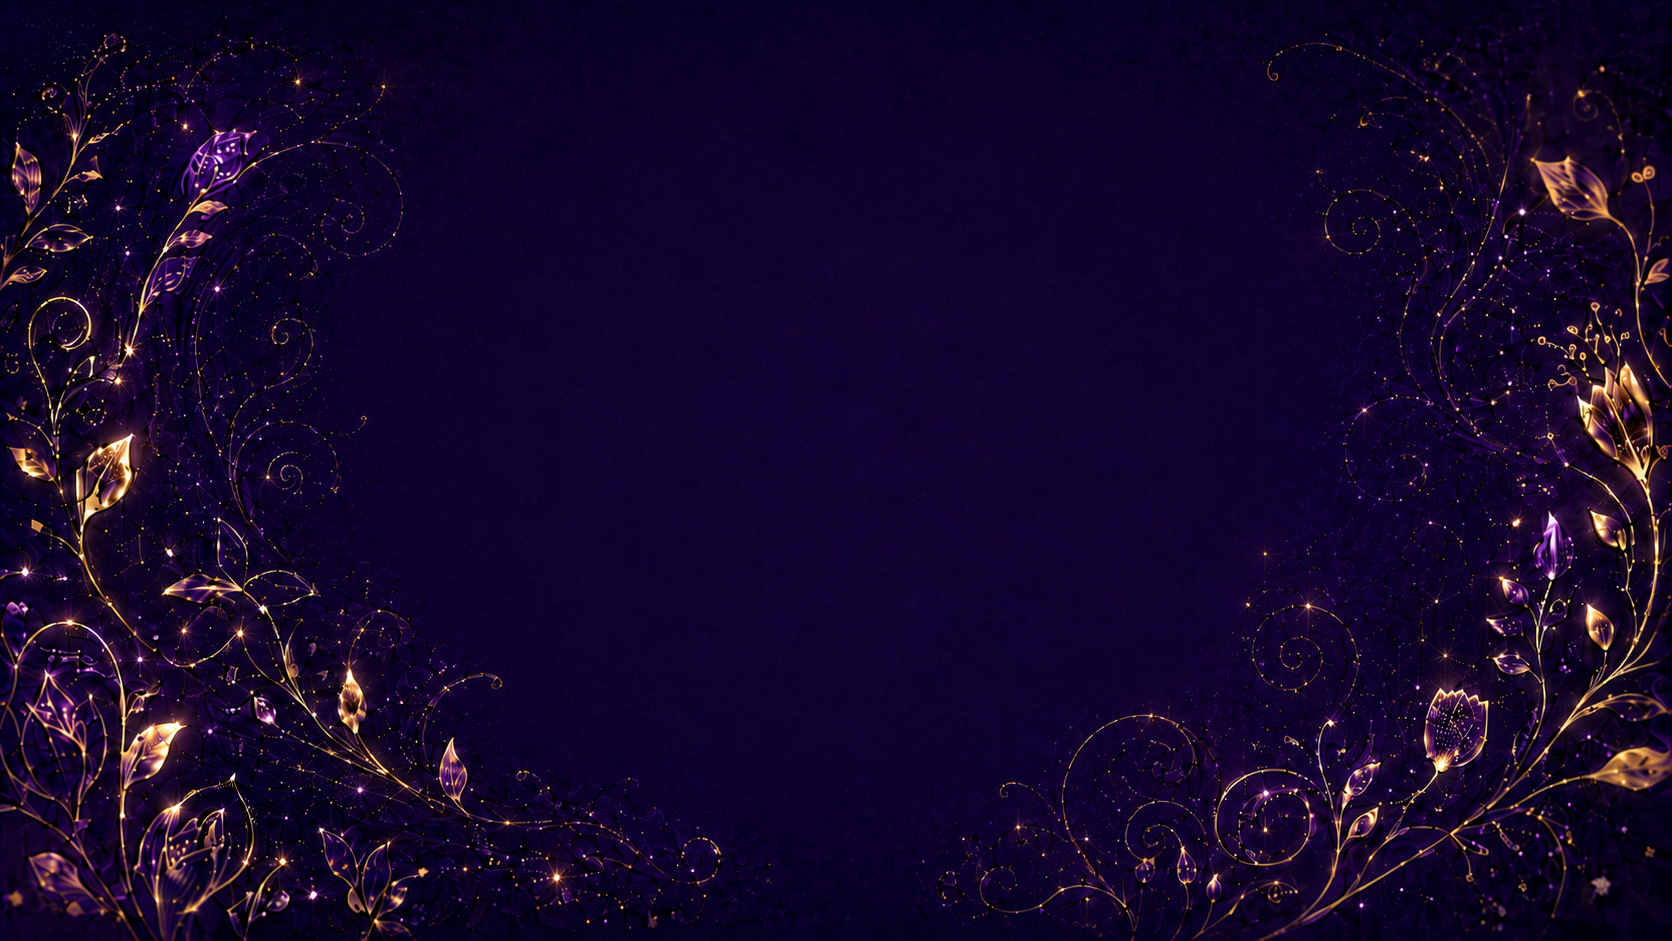
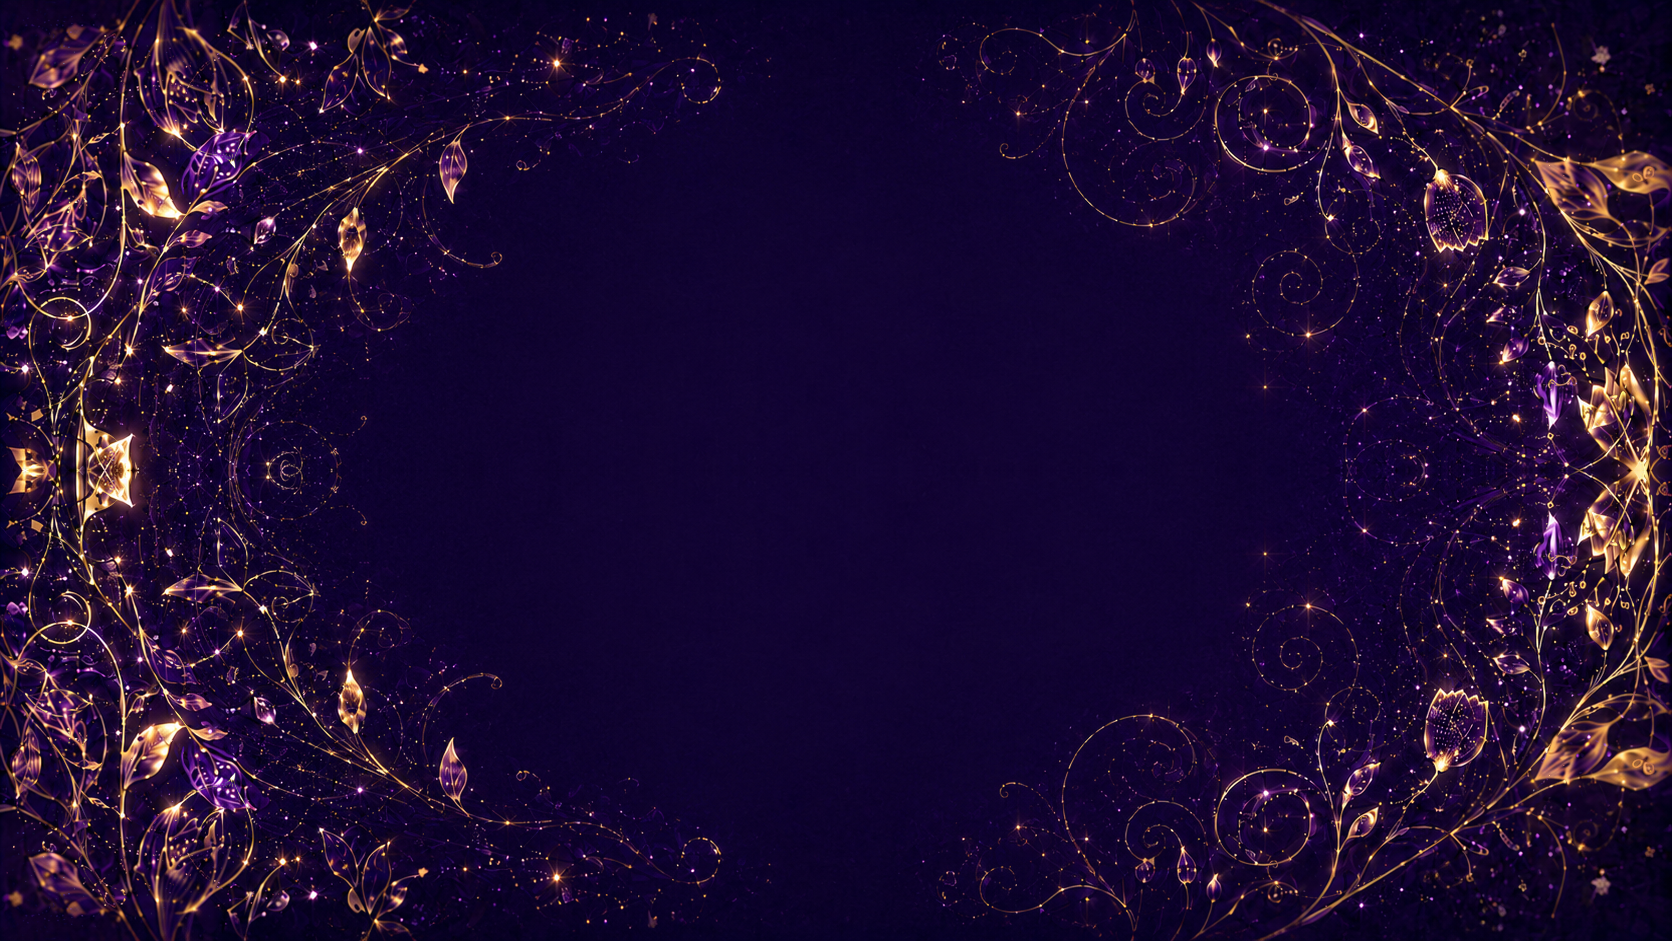
Entrance: frame scrollwork to top too; star-words above name starting with VIOS

diff --git a/site/js/quantum.js b/site/js/quantum.js
@@ -38,7 +38,7 @@
   resize();
   window.addEventListener('resize', resize);
 
-  var WORDS = ['AI', 'CLAUDE', 'LOVABLE', 'LINKEDIN', 'SUBSTACK', 'VIOS', 'WTIC'];
+  var WORDS = ['VIOS', 'AI', 'CLAUDE', 'LOVABLE', 'LINKEDIN', 'SUBSTACK', 'WTIC'];
   var GOLD = '223,178,74';
   var LAVENDER = '196,186,220';
   var WHITE = '255,250,240';
@@ -161,17 +161,15 @@
     return pts;
   }
 
-  /* Big star-words: each word is fit to fill ~the center third —
-     capped by 90% of width OR 34% of viewport height, whichever
-     comes first, so short words ("AI") go huge and long ones
-     ("SUBSTACK") fill the width without clipping. */
+  /* Star-words form ABOVE the name (upper area) so they read clearly —
+     fit to 72% width OR ~17% viewport height, whichever comes first. */
   function wordTargets(word) {
     var off = document.createElement('canvas');
-    off.width = W; off.height = Math.round(H * 0.5);
+    off.width = W; off.height = Math.round(H * 0.34);
     var octx = off.getContext('2d');
-    var fontSize = H * 0.34;
+    var fontSize = H * 0.17;
     octx.font = fontSize + 'px "Bebas Neue", sans-serif';
-    var maxW = W * 0.9;
+    var maxW = W * 0.72;
     var measured = octx.measureText(word).width;
     if (measured > maxW) {
       fontSize = fontSize * maxW / measured;
@@ -187,7 +185,7 @@
     for (var y = 0; y < off.height; y += step) {
       for (var x = 0; x < off.width; x += step) {
         if (data[(y * off.width + x) * 4 + 3] > 128) {
-          pts.push({ x: x, y: y + H * 0.42 - off.height / 2 });
+          pts.push({ x: x, y: y + H * 0.20 - off.height / 2 });
         }
       }
     }